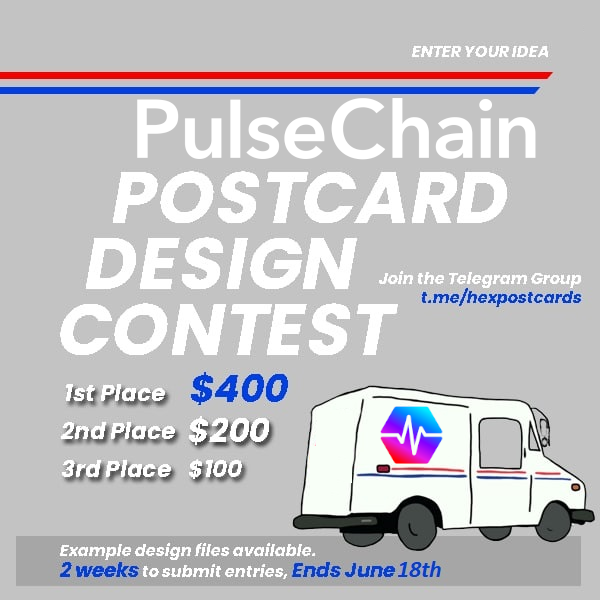
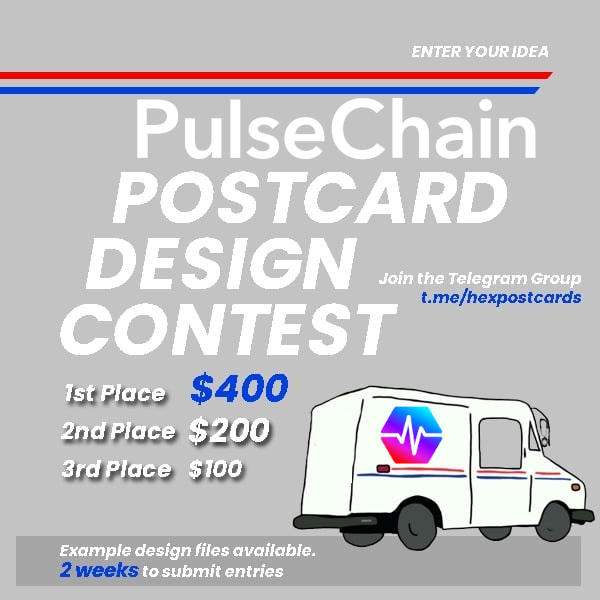
- add design files to tutorial page - add tutorial page to navbar and footer, make tutorial button blue on homepage - update team og image, remove date from design contest og images - add fillup banks youtube link

Changed region(s): [[0.48, 0.93, 0.75, 0.99]]

diff --git a/public/tutorial.html b/public/tutorial.html
@@ -84,7 +84,7 @@
 	<div id="mainSection" style="padding-bottom: 30px;">
 	<center><a href="https://HEXpostcards.com"><img src="/hexpostcardslogo.png" style="max-width: 100%"></img></a></center>
 
-	<center><img src="proof005.png" style="max-width: 100%; height:auto;"></img></center>
+	<center><img src="../proof005.png" style="max-width: 100%; height:auto;"></img></center>
 
 	<center><div id="donationTotal" style="margin-bottom: 0px; color: white; font-size: 30px; padding-top: 0px;"></div></center>-->
 	<center>
@@ -112,15 +112,13 @@
 		<div style="text-align: center; max-width: 840px; margin: 0 auto;"> <!-- Centering Container -->
 			<div style="display: flex; justify-content: center; color: white !important; max-width: 840px; flex-wrap: wrap; padding-top: 0px;">
 				<div style="width: 100%; max-width: 400px; background-color: #10172d; margin-bottom: 30px; margin-left: 1%; margin-right: 1%;">
-					<!-- Fourth Flex Item Content -->
 					<div style="width: 400px;">
 						Tutorial Video:<br>
 						<div style="height: 315px;"><iframe width="100%" height="100%" src="https://www.youtube.com/embed/GOmW6ZDIDro" title="Quick Postcards for your neighborhood" frameborder="0" allow="accelerometer; autoplay; clipboard-write; encrypted-media; gyroscope; picture-in-picture" allowfullscreen></iframe></div>
 					</div>
 				</div>
 				<div style="width: 100%; max-width: 400px; background-color: #10172d; margin-bottom: 30px; padding-top: 10px; margin-left: 1%; margin-right: 1%;">
-					<!-- Second Flex Item Content -->
-					<a href="https://www.printingforless.com/Every-Door-Direct-Mail.html" target="_blank"><img src="pfl.png" style="max-width: 100%; padding-bottom: 5px;"></a>
+					<a href="https://www.printingforless.com/Every-Door-Direct-Mail.html" target="_blank"><img src="../pfl.png" style="max-width: 100%; padding-bottom: 5px;"></a>
 					<p>PrintingForLess [PFL] (6.25" x 9")</p>
 					<p>[$0.48 per postcard]</p>
 					<p><a href="https://www.printingforless.com/Every-Door-Direct-Mail.html" target="_blank">https://www.printingforless.com/Every-Door-Direct-Mail.html</a></p>
@@ -132,9 +130,8 @@
 			</div>
 			<div style="display: flex; justify-content: center; color: white !important; max-width: 840px; flex-wrap: wrap;">
 				<div style="width: 100%; max-width: 400px; background-color: #10172d; margin-bottom: 30px; margin-left: 1%; margin-right: 1%;">
-					<!-- Third Flex Item Content -->
 					<div style="width: 400px; color: white;">
-						<a href="https://www.usps.com/business/vendors.htm" target="_blank"><img src="usps003.png" style="max-width: 100%; padding-bottom: 5px;"></a><br>
+						<a href="https://www.usps.com/business/vendors.htm" target="_blank"><img src="../usps003.png" style="max-width: 100%; padding-bottom: 5px;"></a><br>
 						<p>USPS Printer Vendors</p>
 						<a href="https://www.usps.com/business/vendors.htm" target="_blank">https://www.usps.com/business/vendors.htm</a><br>
 						<br>
@@ -142,7 +139,6 @@
 					</div>
 				</div>
 				<div style="width: 100%; max-width: 400px; margin-bottom: 30px; background-color: #10172d; padding-top: 10px; margin-left: 1%; margin-right: 1%;">
-					<!-- First Flex Item Content -->
 					<a href="https://hex.fillupbanks.com/" target="_blank"><img src="/hexpromo.png" style="width: 100%; max-width: 450px; padding-bottom: 20px;"></a>
 					<p>Fillup Banks (6.5" x 9")</p>
 					<p>[$0.33 per postcard]</p>
@@ -156,6 +152,46 @@
 		</div>
 	</center>
 	
+	<center>
+		<button id="buttonDesigns" style="width: 300px; height: 60px; margin-bottom: 20px; margin-top: 0px;" disabled>Design Files</button>
+		<div style="text-align: center; max-width: 840px; margin: 0 auto;"> <!-- Centering Container -->
+			<div style="display: flex; justify-content: center; color: white !important; max-width: 840px; flex-wrap: wrap; padding-top: 0px;">
+				<div style="width: 100%; max-width: 400px; background-color: #10172d; margin-bottom: 30px; margin-left: 1%; margin-right: 1%;">
+					<img src="/designs/HEXpostcard_6.5x9_Fillup_SideA_03.png" style="max-width: 100%; height:auto;"></img><br><br>
+					<li><a href="/designs/HEXpostcard_6.5x9_Fillup_SideA_03.pdf" target="_blank">6.5x9_Fillup_SideA.pdf</a> &nbsp;<a href="/designs/HEXpostcard_6.5x9_Fillup_SideA_03.png" target="_blank">(image)</a></li></br>
+					<li><a href="/designs/HEXpostcard_6.5x9_Fillup_SideB_03.pdf" target="_blank">6.5x9_Fillup_SideB.pdf</a> &nbsp;<a href="/designs/HEXpostcard_6.5x9_Fillup_SideB_03.png" target="_blank">(image)</a></li></br>
+				</div>
+				<div style="width: 100%; max-width: 400px; background-color: #10172d; margin-bottom: 30px; margin-left: 1%; margin-right: 1%;">
+					<img src="/designs/HEXpostcard_6.5x9_Fillup_SideB_03.png" style="max-width: 100%; height:auto;"></img><br><br>
+					<li><a href="/designs/HEXpostcard_6.25x9_PFL_BothSides_05.pdf" target="_blank">6.25x9_PFL_Both.pdf</a> &nbsp;<a href="/designs/HEXpostcard_6.25x9_PFL_BothSides_05.png" target="_blank">(image)</a></li></br>
+					<li><a href="/designs/HEXpostcard_6.25x9_PFL_SideA_04.pdf" target="_blank">6.25x9_PFL_SideA.pdf</a> &nbsp;<a href="/designs/HEXpostcard_6.25x9_PFL_SideA_04.png" target="_blank">(image)</a></li></br>
+					<li><a href="/designs/HEXpostcard_6.25x9_PFL_SideB_04.pdf" target="_blank">6.25x9_PFL_SideB.pdf</a> &nbsp;<a href="/designs/HEXpostcard_6.25x9_PFL_SideB_04.png" target="_blank">(image)</a></li></br>
+				</div>
+			</div>
+			<div style="display: flex; justify-content: center; color: white !important; max-width: 840px; flex-wrap: wrap;">
+				<div style="width: 100%; max-width: 400px; background-color: #10172d; margin-bottom: 30px; margin-left: 1%; margin-right: 1%;">
+					<img src="/designs/HEXpostcard_6.5x9_Fillup_BothSides.jpg" style="max-width: 100%; height:auto;"></img><br><br>
+					<li><a href="/designs/HEXpostcard_6.5x9_Fillup_SideA_06_PulseChain.jpg" target="_blank">6.5x9_Fillup_SideA_PulseChain.jpg</a></li></br>
+					<li><a href="/designs/HEXpostcard_6.5x9_Fillup_SideB_06_PulseChain.jpg" target="_blank">6.5x9_Fillup_SideB_PulseChain.jpg</a></li></br>
+				</div>
+				<div style="width: 100%; max-width: 400px; margin-bottom: 30px; background-color: #10172d; margin-left: 1%; margin-right: 1%;">
+					<img src="/designs/HEXpostcards_4.25x11_Fillup_BothSides.jpg" style="max-width: 100%; height:auto;"></img><br><br>
+					<li><a href="/designs/HEXpostcards_4.25x11_Fillup_BothSides.jpg" target="_blank">4.25x11_Fillup_BothSides.jpg</a></li></br>
+					<li><a href="/designs/HEXpostcards_4.25x11_Fillup_BothSides.jpg" target="_blank">4.25x11_Fillup_BothSides.jpg</a></li></br><br>
+					Create Custom Design:<br><br>
+					<li><a href="https://www.adobe.com/products/illustrator" target="_blank">Adobe Illustrator ($30/month)</a></br></li></br>
+					<li><a href="https://t.me/hexdesign" target="_blank">Find a designer</a> &nbsp;<a href="https://t.me/eyeofwoden" target="_blank">(Steed)</a></li></br>
+					<li><a href="https://t.me/HEXpostcards" target="_blank">Join our Telegram Chat</a></br></li></br>
+				</div>
+			</div>
+		</div>
+	<center>
+
+	<center>
+		<a href="/contest">
+			<button id="buttonContest" style="width: 300px; height: 60px; margin-bottom: 20px; margin-top: 10px;">Design Contest Files</button>
+		</a>
+	</center>
 
 	<center>
 		<button id="buttonZips" style="width: 300px; height: 60px; margin-bottom: 20px; margin-top: 10px;" disabled>Zip Codes</button>
@@ -178,7 +214,7 @@
 
 	<center><button onclick="window.open('https://t.me/HEXpostcards','_blank');" type="button" style="height: 60px; width: 300px; margin-top: 10px; margin-bottom: 20px;">Join Chat</button></center>
 
-	<center><img src="hexpostcards_richard_wishsatoshisentletter_tweet.png" style="max-width: 100%; height:auto; margin-top: 40px;"></img></center>
+	<center><img src="../hexpostcards_richard_wishsatoshisentletter_tweet.png" style="max-width: 100%; height:auto; margin-top: 40px;"></img></center>
 
 	<center><div style="margin-bottom: 120px"></div></center>
 

diff --git a/public/index.html b/public/index.html
@@ -102,9 +102,9 @@
 					$('#footer').load('/footer.html');
 					$('#postcardsMailed').html(Number(postcardsMailedCount).toLocaleString(undefined,{minimumFractionDigits:0, maximumFractionDigits:0}));
 					
-			$('#buttonInstructions').click(function() { 
-				$('#divInstructions').toggle();
-			});
+			//$('#buttonInstructions').click(function() { 
+			//	$('#divInstructions').toggle();
+			//});
 			$('#buttonDesigns').click(function() { 
 				$('#divDesigns').toggle();
 			});
@@ -291,7 +291,7 @@
 		<center>
 
 		<center>
-		    <a href="/tutorial"><button id="buttonInstructions" style="width: 300px; height: 60px; margin-bottom: 10px; margin-top: 10px;">Mail Instructions</button></a>
+		    <a href="/tutorial"><button id="buttonInstructions" style="width: 300px; height: 60px; margin-bottom: 10px; margin-top: 10px; background-color: #3498db; transition: background-color 0.3s ease;" onmouseover="this.style.backgroundColor='#2980b9'" onmouseout="this.style.backgroundColor='#3498db'">Mail Instructions</button></a>
 			<div id="divInstructions" style="display: none; color: white !important; text-align: left; width: 300px; margin-bottom: 10px; margin-top: 16px; padding-bottom: 10px; background-color: #10172d; padding-left: 7px; padding-top: 5px;">
 With EDDM (Every Door Direct Mail) you just need a zip code and mailman can send your flat mail (postcard or flyer) to every address along each zip code route!<br>
 <br>

diff --git a/public/navbar.html b/public/navbar.html
@@ -51,6 +51,8 @@ button:hover {
             <li><hr class="dropdown-divider"></li>
             <li><a class="dropdown-item" href="/designs/HEXpostcard_6.5x9_Fillup_SideA_06_PulseChain.jpg" target="_blank">6.5x9_Fillup_SideA_PulseChain.jpg</a></li>
             <li><a class="dropdown-item" href="/designs/HEXpostcard_6.5x9_Fillup_SideB_06_PulseChain.jpg" target="_blank">6.5x9_Fillup_SideB_PulseChain.jpg</a></li>
+            <li><hr class="dropdown-divider"></li>
+            <li><a class="dropdown-item" href="/designs/HEXpostcards_4.25x11_Fillup_BothSides.jpg" target="_blank">4.25x11_Fillup_Both_HEXscout.jpg</a></li>
           </ul>
         </li>
         <li class="nav-item">
@@ -58,6 +60,9 @@ button:hover {
         </li>
         <li class="nav-item">
           <a class="nav-link" href="/takeaction">Take Action</a>
+        </li>
+        <li class="nav-item">
+          <a class="nav-link" href="/tutorial">Tutorial</a>
         </li>
         <li class="nav-item">
           <a class="nav-link" href="https://t.me/HEXpostcards" target="_blank">Join Chat</a>

diff --git a/public/contest.html b/public/contest.html
@@ -91,7 +91,7 @@
 
 		<!--<center><button onclick="window.location='/';" type="button" style="height: 60px; width: 300px; margin-top: 10px; margin-bottom: 10px;">Home</button></center>-->
 
-		<center><div style="margin-top: 20px; margin-bottom: 20px; max-width: 600px; color: white;">If you were to pitch HEX, PulseChain and PulseX to the wealthiest people in the world with a postcard, what would you put on it?</div></center>
+		<center><div style="margin-top: 20px; margin-bottom: 20px; max-width: 600px; color: white;">If you were to pitch HEX and PulseChain to the wealthiest people in the world with a postcard, what would you put on it?</div></center>
 
 		<center><div style="margin-top: 20px; margin-bottom: 20px; max-width: 600px; color: white;"><u>Requirements:</u> Front and back of postcard, jpg or png <a href="/postcard_template.jpg" target="_blank">(Template)</a></div></center>
 

diff --git a/public/team.html b/public/team.html
@@ -104,6 +104,7 @@
 					<img src="/fillupbanks_400x400.png" style="width: 300px; height: 300px;" loading="lazy"></img><br>
 					Fillup Banks<br> (Designer, Printer)<br><br>
 					<a href="https://HEX.FillupBanks.com" target="_blank">HEX.fillupbanks.com</a><br><br>
+					<a href="https://www.youtube.com/@FillupBanks" target="_blank">youtube.com/@FillupBanks</a><br>
 					<a href="https://twitter.com/fillup_banks" target="_blank">twitter.com/fillup_banks</a><br>
 				</div>
 

diff --git a/public/donate.html b/public/donate.html
@@ -289,6 +289,7 @@
 				<img src="/fillupbanks_400x400.png" style="width: 300px; height: 300px;" loading="lazy"></img><br>
 				Fillup Banks<br> (Designer, Printer)<br><br>
 				<a href="https://HEX.FillupBanks.com" target="_blank">HEX.fillupbanks.com</a><br><br>
+				<a href="https://www.youtube.com/@FillupBanks" target="_blank">youtube.com/@FillupBanks</a><br>
 				<a href="https://twitter.com/fillup_banks" target="_blank">twitter.com/fillup_banks</a><br>
 			</div>
 

diff --git a/public/footer.html b/public/footer.html
@@ -47,6 +47,7 @@
             <a href="/team">About Us</a>
             <a href="/contest">Design Contest</a>
             <a href="/takeaction">Take Action</a>
+            <a href="/tutorial">Tutorial</a>
             <a href="https://t.me/HEXpostcards" target="_blank">Join Chat</a>
             <a href="/donate">Donate</a>
         </div>
